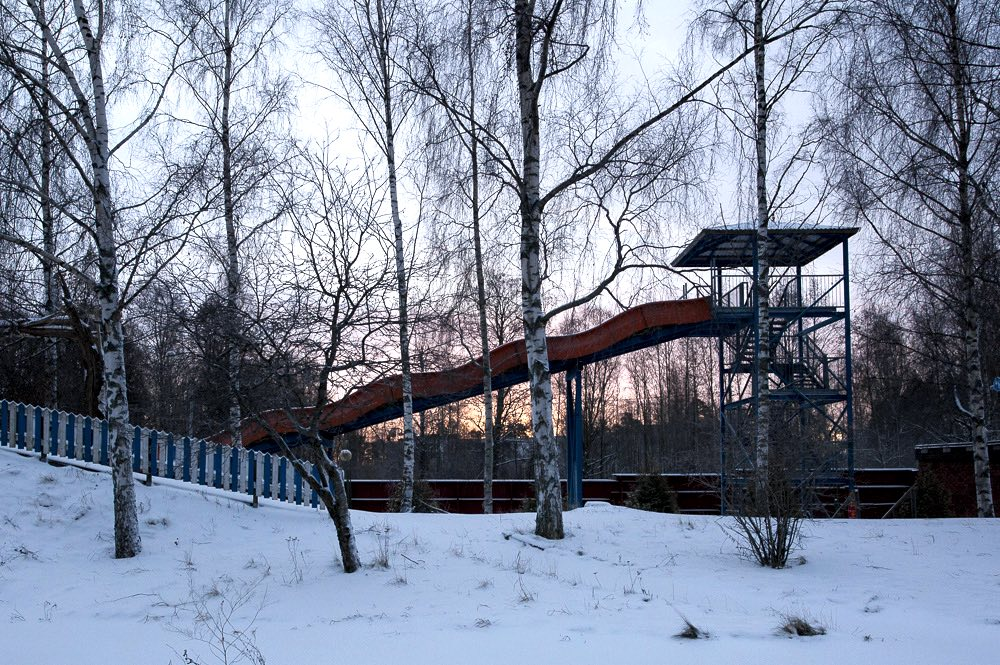
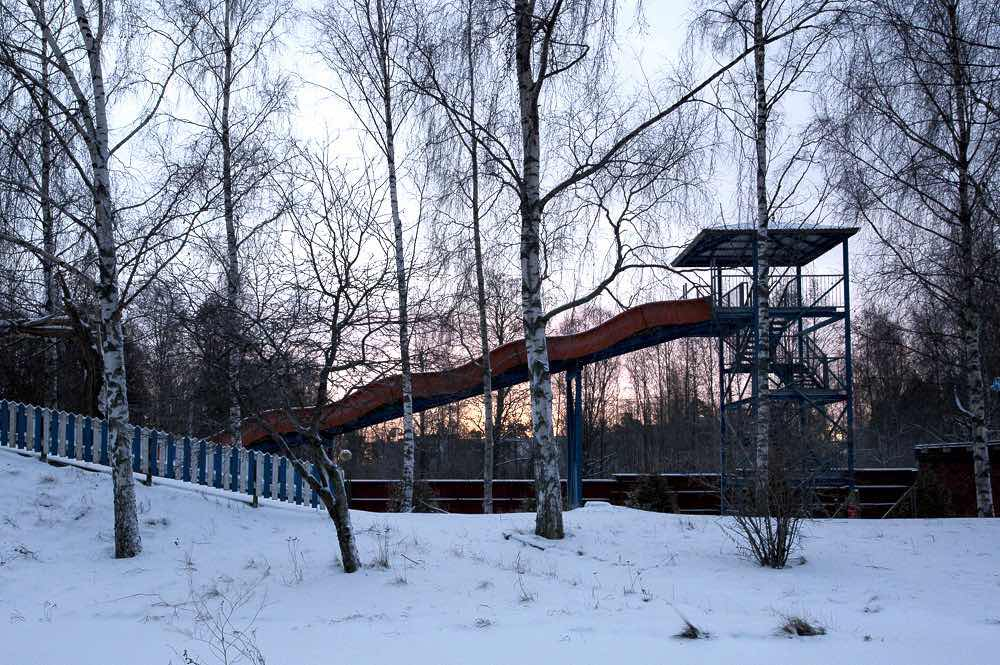
optimizing image sizes

Changed region(s): [[0.0, 0.0, 1.0, 0.6015], [0.372, 0.5113, 0.744, 0.6617], [0.713, 0.782, 0.806, 0.8421]]

diff --git a/assets/css/main.scss b/assets/css/main.scss
@@ -5,7 +5,6 @@
 @import 'libs/functions';
 @import 'libs/mixins';
 @import 'libs/skel';
-@import 'font-awesome.min.css';
 @import url('https://fonts.googleapis.com/css?family=Source+Sans+Pro:300,300italic,600,600italic');
 @import url('https://fonts.googleapis.com/css?family=Alegreya');
 @import url('https://fonts.googleapis.com/css?family=Averia+Serif+Libre:400,400i,700,700i|Rye&subset=latin-ext');

diff --git a/_site/assets/css/main.css b/_site/assets/css/main.css
@@ -1,4 +1,3 @@
-@import url(font-awesome.min.css);
 @import url("https://fonts.googleapis.com/css?family=Source+Sans+Pro:300,300italic,600,600italic");
 @import url("https://fonts.googleapis.com/css?family=Alegreya");
 @import url("https://fonts.googleapis.com/css?family=Averia+Serif+Libre:400,400i,700,700i|Rye&subset=latin-ext");
